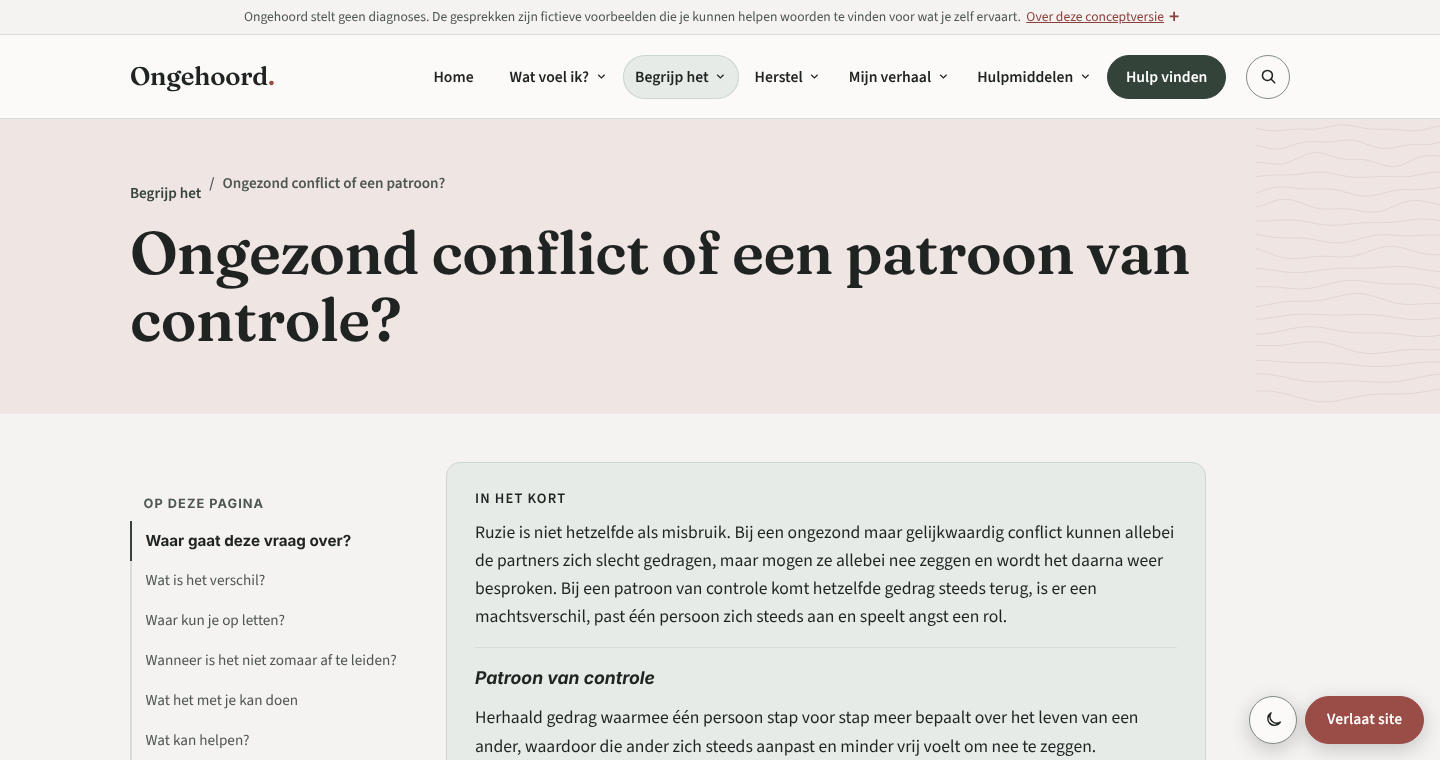
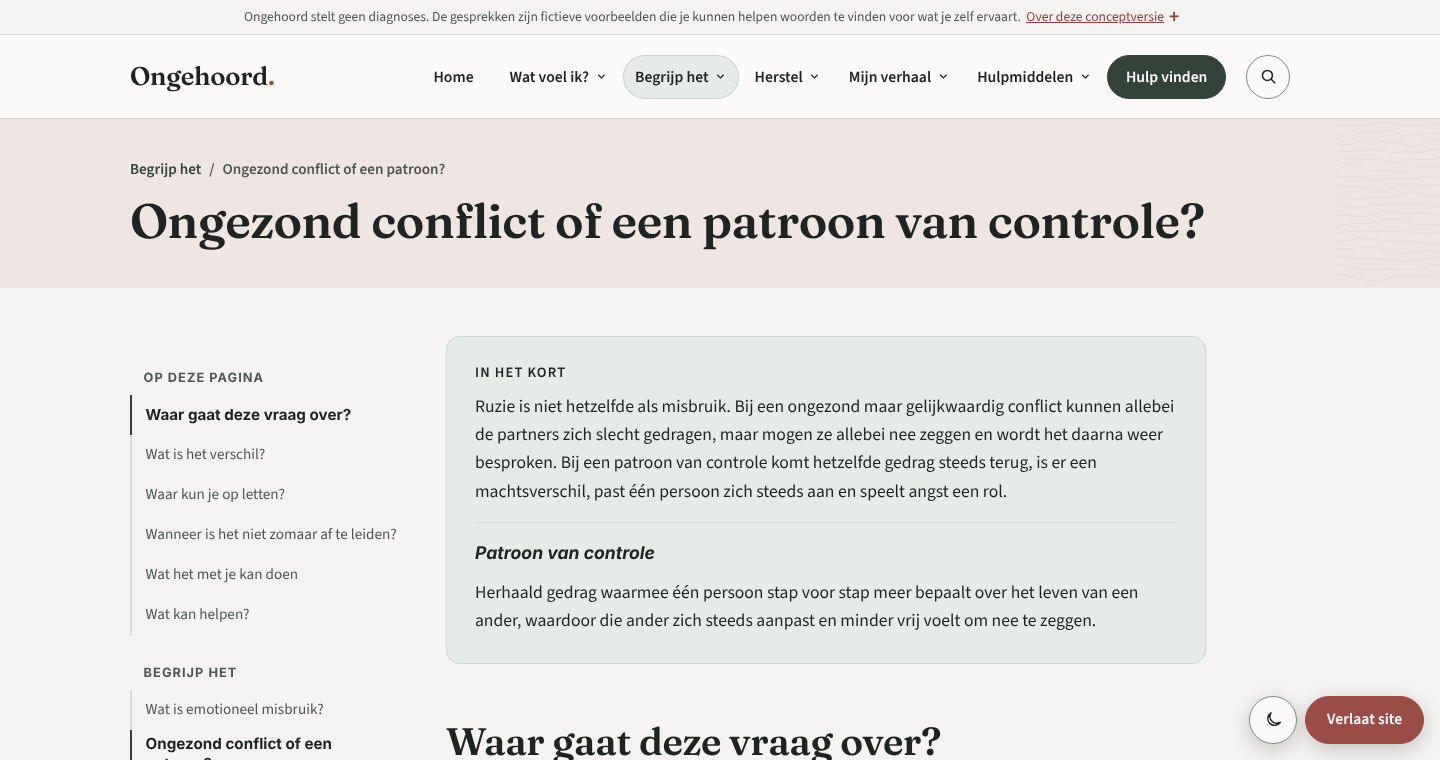
Keep only the trail and the title in a detail-page hero
On detail pages (no image, no pillar visual) the hero now holds only the
breadcrumbs and the title, at a size that fits (max 3rem, balanced). The intro
and its buttons follow directly below, in the reading column. The breadcrumb
items share one line height, so the separator and the current page line up.

Claude-Session: https://claude.ai/code/session_01EGkh59gzny4aKhZTkfioLr

diff --git a/src/styles/global.css b/src/styles/global.css
@@ -849,13 +849,34 @@ body:has(main > :is(.section--tension, .section--therapy, .section--tint):last-c
 .page-hero__grid--plain {
   grid-template-columns: minmax(0, 1fr);
 }
-/* Detail pages (no image beside the text): the heading and intro use the width of the page
-   instead of a narrow column. The intro stops at a readable line length. */
-.page-hero__grid--plain h1 {
-  max-width: none;
+/* Detail pages: a compact hero with only the trail and the title, across the width of the
+   page at a size that fits. The intro follows below the hero (.page-intro). */
+.page-hero--detail {
+  padding-block: 0.5rem clamp(1.75rem, 3.5vw, 2.5rem);
 }
-.page-hero__grid--plain .page-hero__content > p:not(.eyebrow) {
-  max-width: 62rem;
+.page-hero--detail .page-hero__content {
+  margin-top: clamp(0.5rem, 2vw, 1.25rem);
+}
+.page-hero--detail h1 {
+  max-width: 34ch;
+  margin-block: 0.25rem 0;
+  font-size: clamp(1.9rem, 1.35rem + 2.2vw, 3rem);
+  line-height: 1.1;
+  text-wrap: balance;
+}
+.page-intro {
+  padding-block: clamp(1.5rem, 3vw, 2.25rem) 0;
+}
+.page-intro .lead {
+  margin: 0;
+  font-size: clamp(1.15rem, 1rem + 0.5vw, 1.35rem);
+  line-height: 1.55;
+}
+.page-intro > p:not(.lead) {
+  margin-block: 0.75rem 0;
+}
+.page-intro .actions {
+  margin-block-start: 1rem;
 }
 /* A pillar's own hero visual (words, layers, a line, the ridge, the cards, the help choices):
    a narrower text column, so the visual has room. */
@@ -1103,6 +1124,15 @@ body:has(main > :is(.section--tension, .section--therapy, .section--tint):last-c
   list-style: none;
   font-size: 0.95rem;
   font-weight: 600;
+}
+.breadcrumbs ol {
+  align-items: center;
+}
+.breadcrumbs li {
+  display: inline-flex;
+  align-items: center;
+  min-height: 2.75rem;
+  line-height: 1.2;
 }
 .breadcrumbs li + li:not(.sr-only)::before {
   margin-inline-end: 0.5rem;
